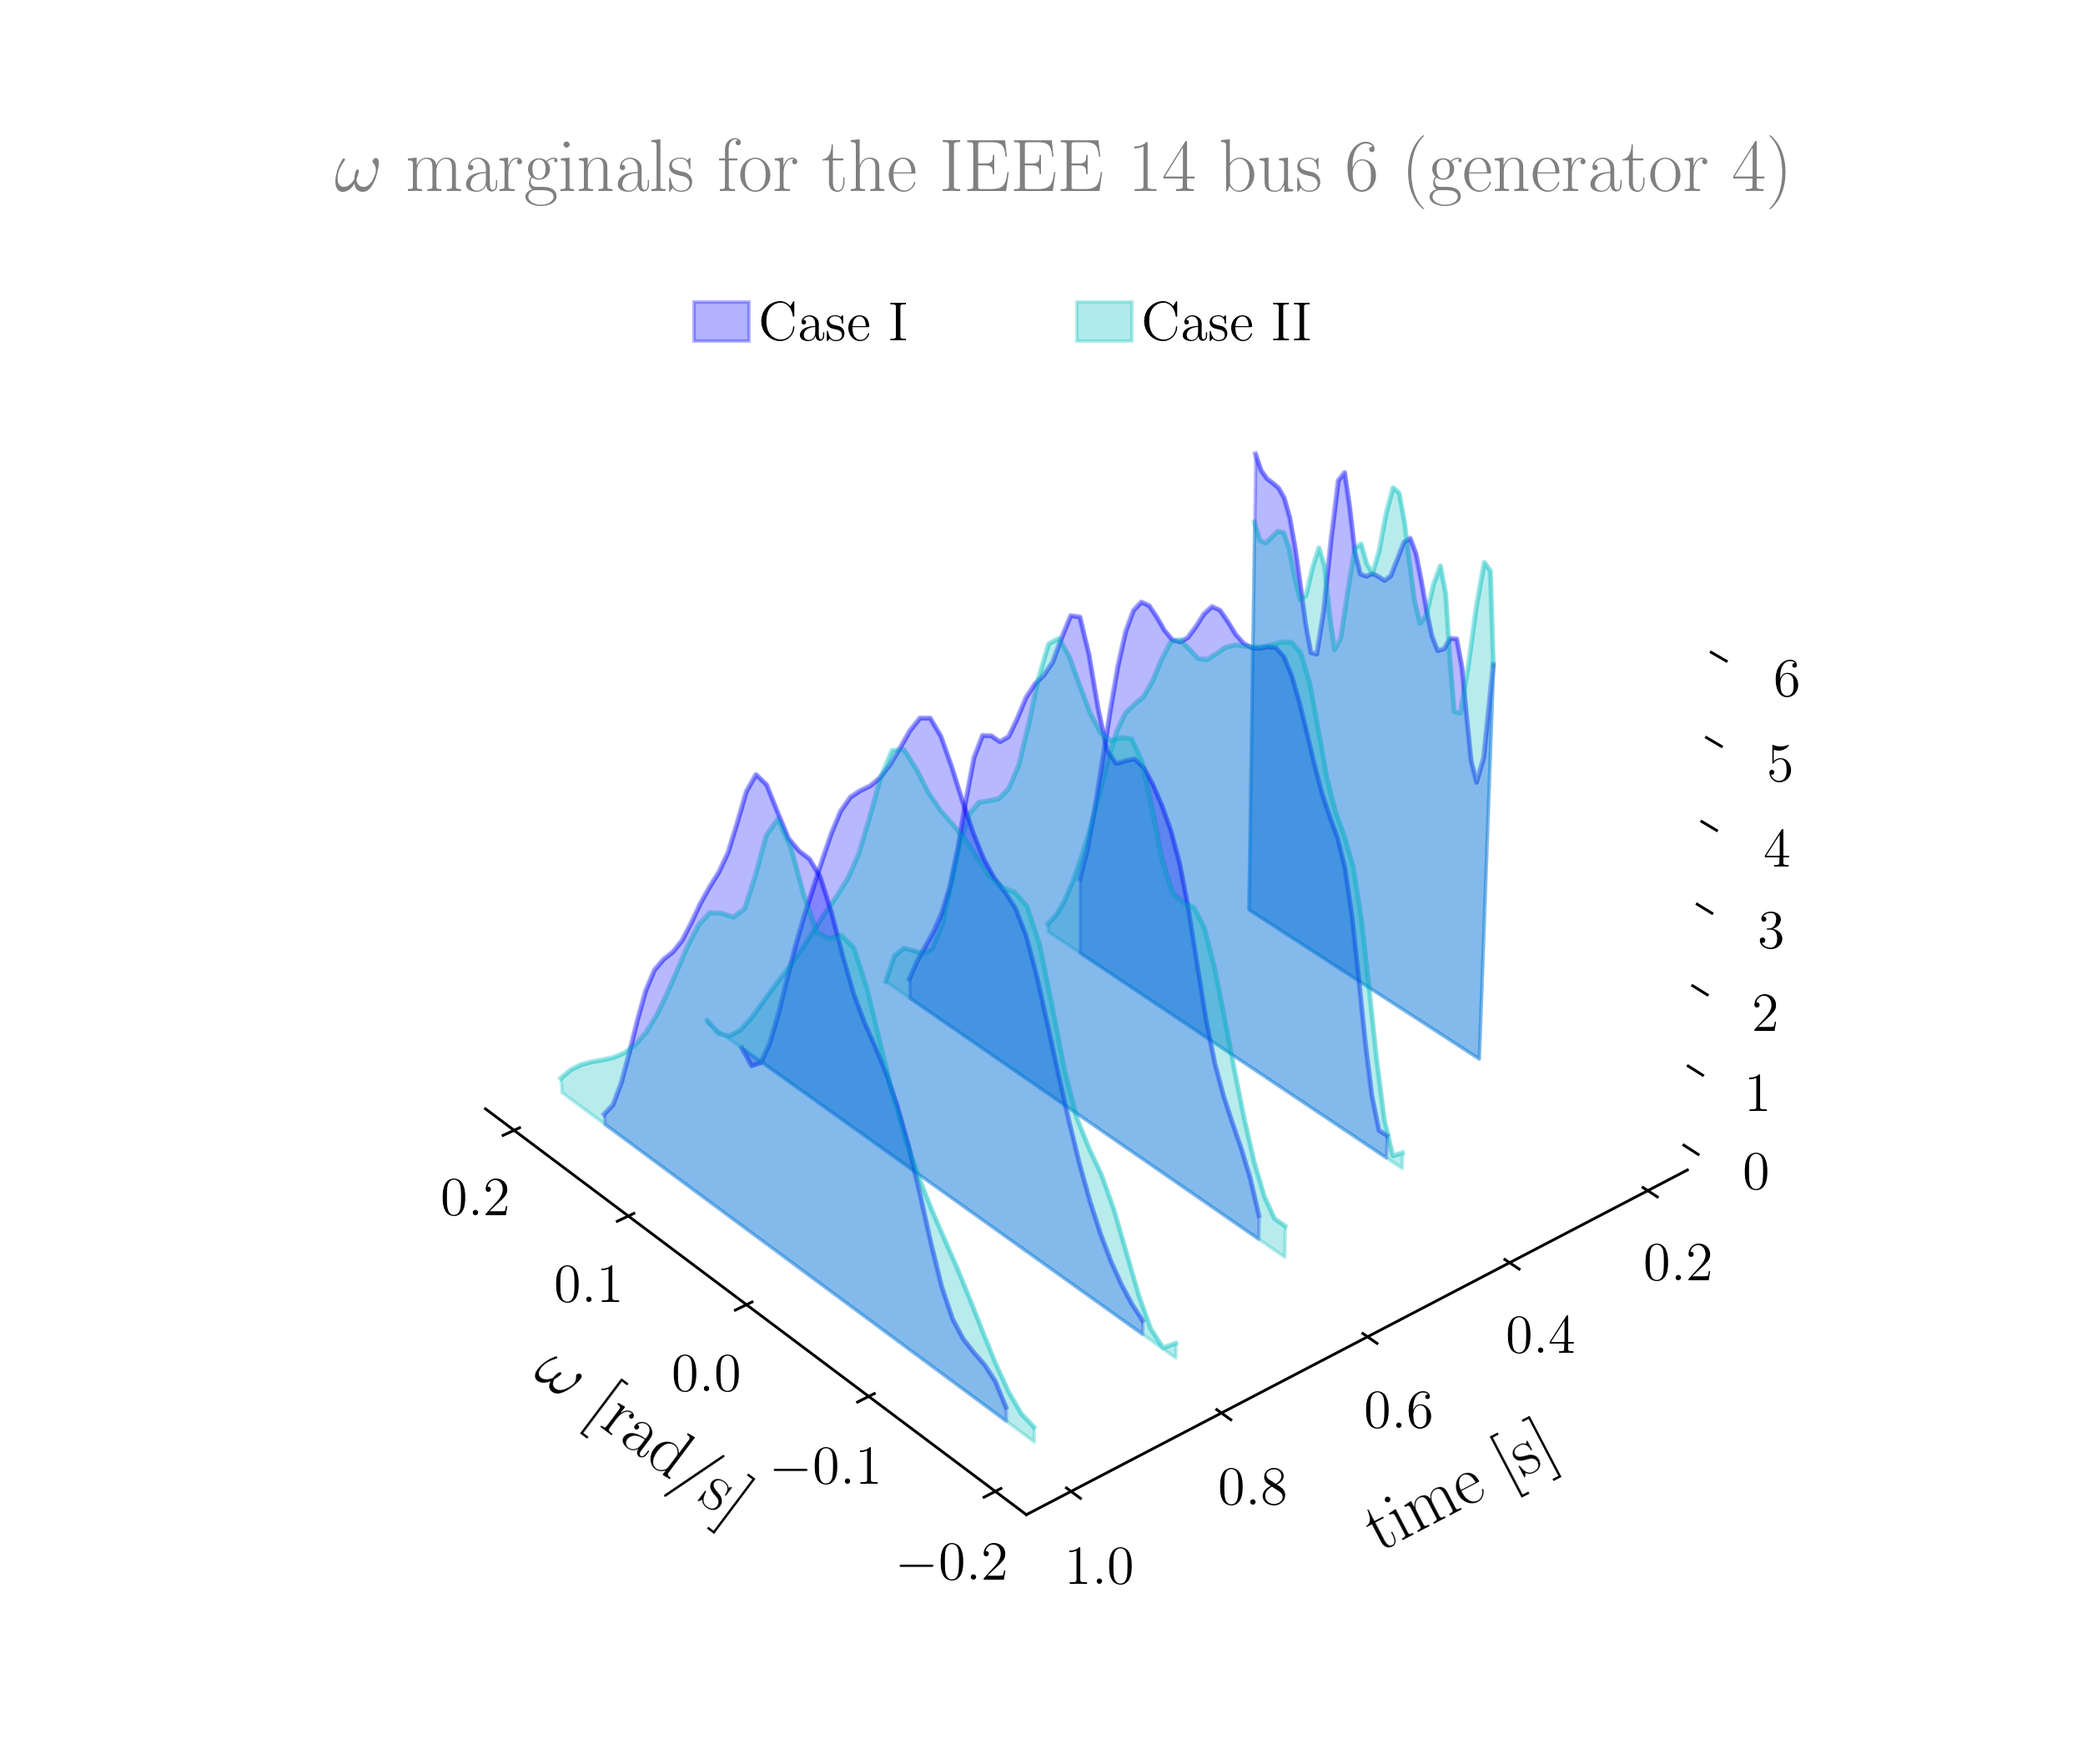
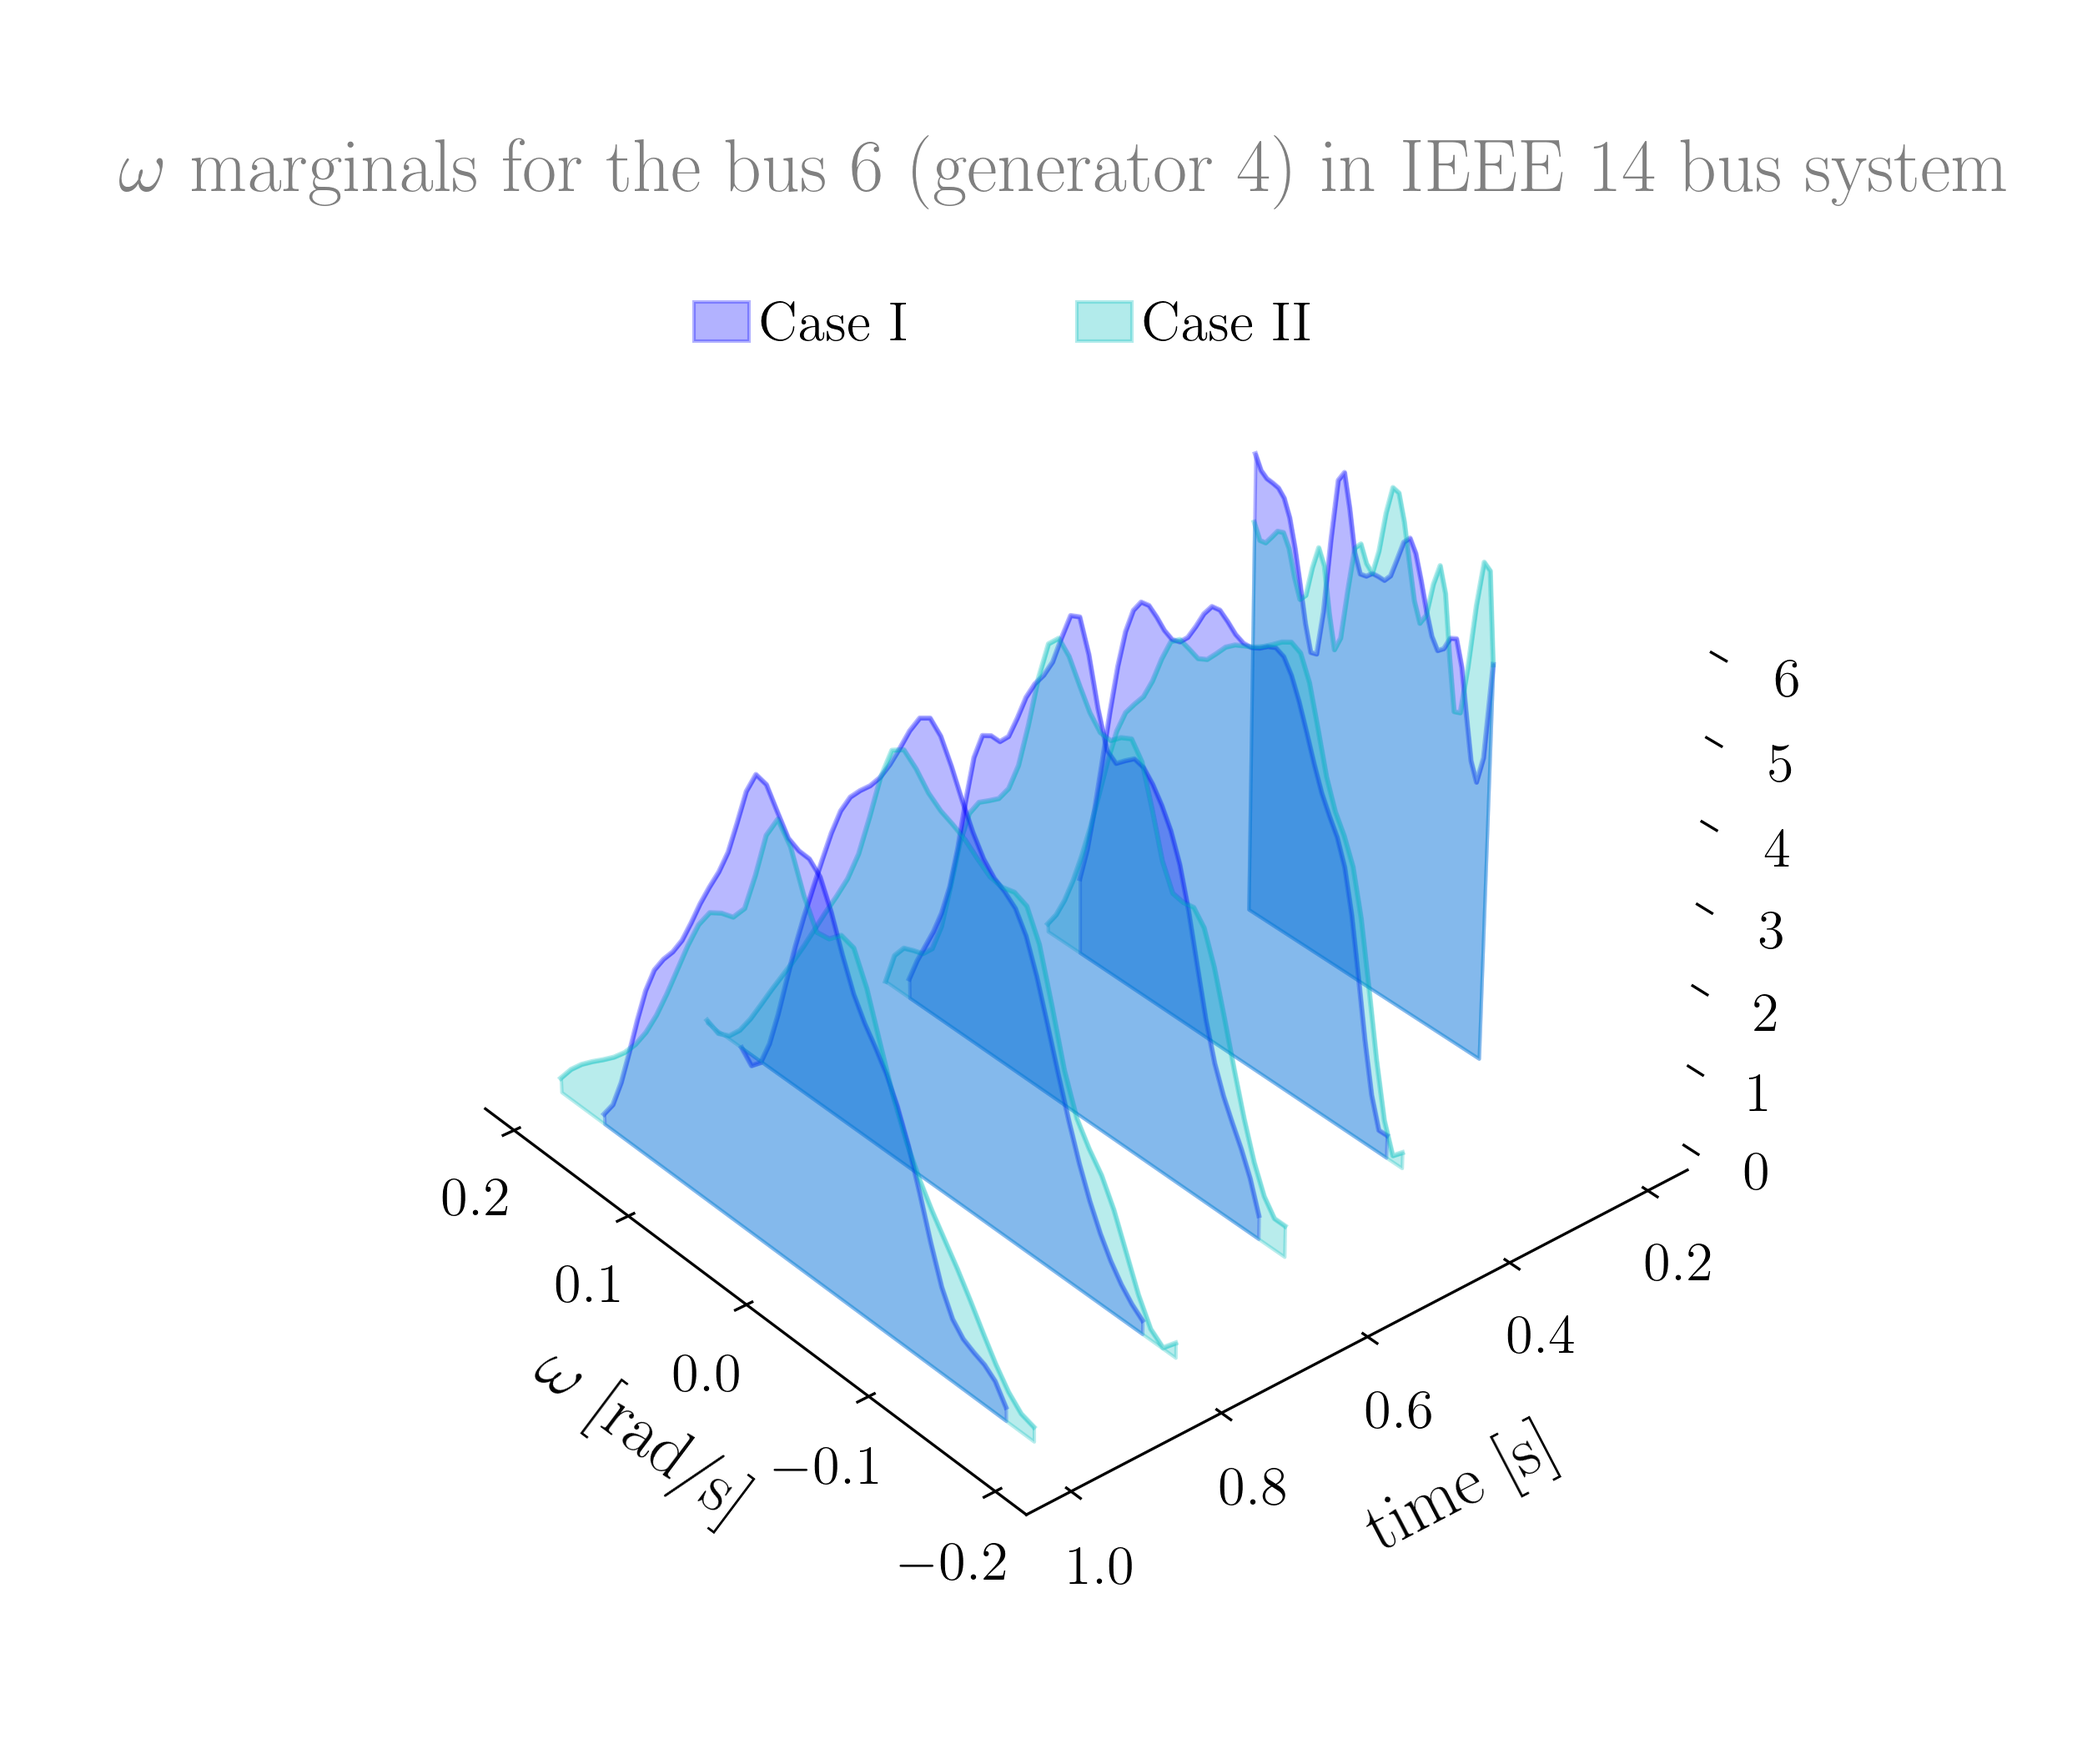
updates

Changed region(s): [[0.0928, 0.0624, 0.9586, 0.1248]]

diff --git a/Papers/Stochastic_Uncertainty_Propagation_TPS/Plots-TPS-UncPropProx.py b/Papers/Stochastic_Uncertainty_Propagation_TPS/Plots-TPS-UncPropProx.py
@@ -578,7 +578,7 @@ ax.plot(case1new_omega5t5, 1.0*np.ones(case1new_omega5t5.size), case1rho1D_omega
 fill = plt.fill_between(case1new_omega5t5, np.zeros(case1new_omega5t5.size), case1rho1D_omega5t5(case1new_omega5t5), color='k', alpha=0.5*myalphavalue)
 fill_collection = ax.add_collection3d(fill, zs=1.0, zdir='y')
 
-plt.title('$\omega$ marginals for the IEEE 14 bus simulation, Case II', color='gray')
+plt.title('$\omega$ marginals for the IEEE 14 bus system, Case II', color='gray')
 plt.xlabel("$\omega$ [rad/s]",labelpad=10)
 plt.ylabel("time [s]",labelpad=12)
 # # ax.set_zticks([])
@@ -656,7 +656,7 @@ ax.plot(case1new_omega4t5, 1.0*np.ones(case1new_omega4t5.size), case1rho1D_omega
 fill = plt.fill_between(case1new_omega4t5, np.zeros(case1new_omega4t5.size), case1rho1D_omega4t5(case1new_omega4t5), color='c', alpha=0.5*myalphavalue)
 fill_collection = ax.add_collection3d(fill, zs=1.0, zdir='y')
 
-plt.title('$\omega$ marginals for the IEEE 14 bus 6 (generator 4)', color='gray')
+plt.title('$\omega$ marginals for the bus 6 (generator 4) in IEEE 14 bus system', color='gray')
 plt.xlabel("$\omega$ [rad/s]",labelpad=10)
 plt.ylabel("time [s]",labelpad=12)
 # # ax.set_zticks([])
